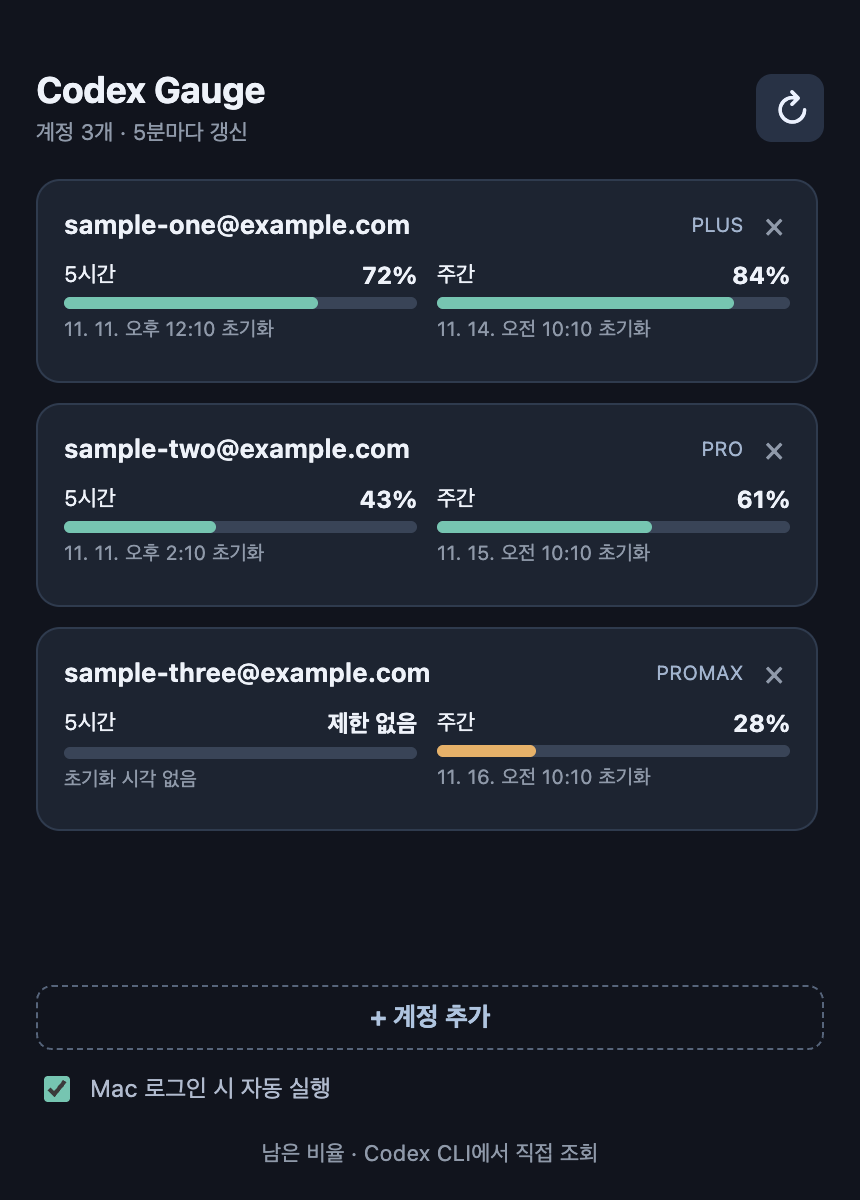
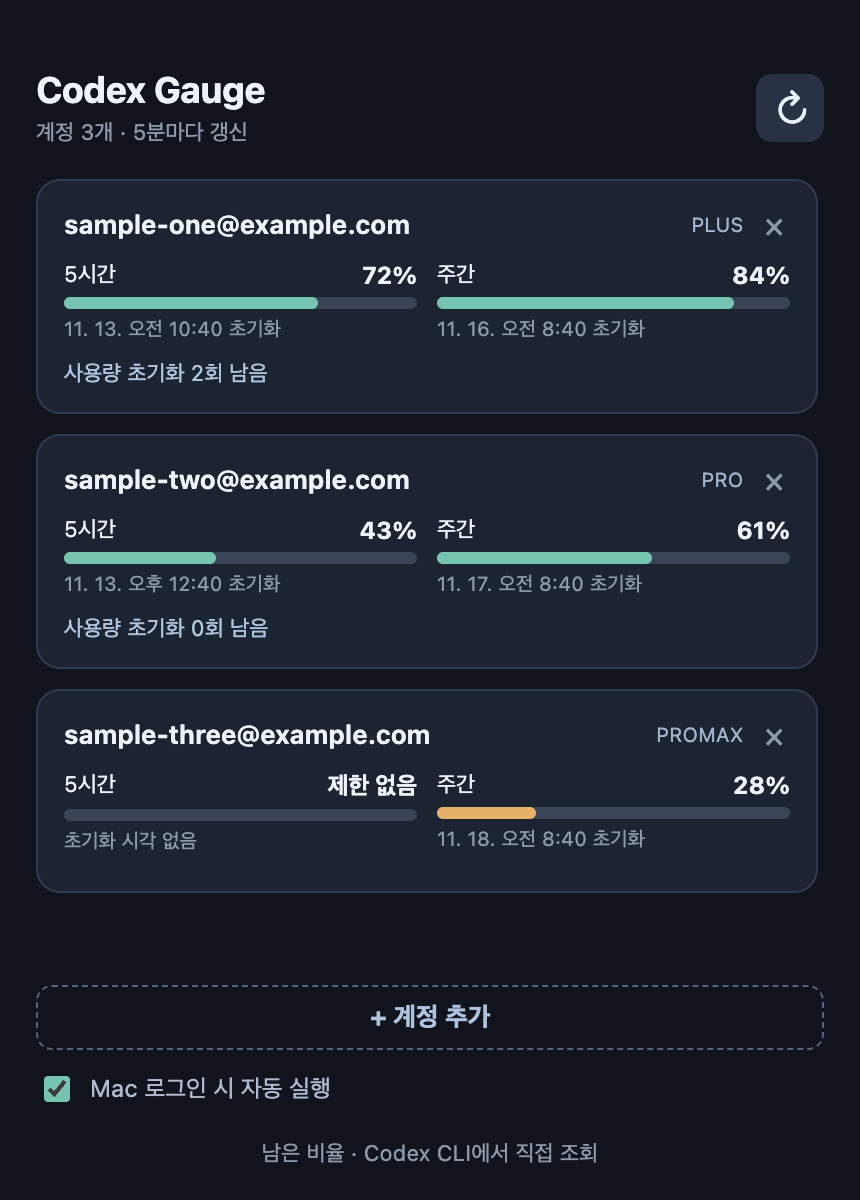
feat: show available Codex usage resets
Display earned rate-limit reset count in the menu and account cards only when the Codex app-server provides it.

diff --git a/test/reset-credits.test.js b/test/reset-credits.test.js
@@ -1,0 +1,35 @@
+'use strict';
+
+const test = require('node:test');
+const assert = require('node:assert/strict');
+const { normalizeLimits } = require('../src/limits');
+const { accountMenuLines } = require('../src/menu-label');
+const { resetCreditsLabel } = require('../src/reset-credits');
+
+function response(resetCredits) {
+  return {
+    rateLimits: { primary: { usedPercent: 25 }, secondary: { usedPercent: 50 } },
+    ...(resetCredits === undefined ? {} : { rateLimitResetCredits: resetCredits })
+  };
+}
+
+test('available reset count appears on a separate account menu row', () => {
+  const limits = normalizeLimits(response({ availableCount: 2, credits: [{ id: 'one' }] }));
+  assert.equal(limits.resetCreditCount, 2);
+  assert.deepEqual(accountMenuLines({ index: 0, email: 'sample@example.com', connected: true, ...limits }), [
+    'sample@example.com',
+    '    5시간 75% 남음  ·  주간 50% 남음',
+    '    사용량 초기화 2회 남음'
+  ]);
+});
+
+test('zero is known and displayed; missing or malformed counts are hidden', () => {
+  assert.equal(normalizeLimits(response({ availableCount: 0, credits: [] })).resetCreditCount, 0);
+  assert.equal(resetCreditsLabel(0), '사용량 초기화 0회 남음');
+  for (const value of [undefined, null, { availableCount: null }, { availableCount: -1 }, { availableCount: 1.5 }, { availableCount: '2' }]) {
+    const limits = normalizeLimits(response(value));
+    assert.equal(limits.resetCreditCount, null);
+    assert.equal(accountMenuLines({ index: 1, connected: true, ...limits }).length, 2);
+    assert.equal(resetCreditsLabel(limits.resetCreditCount), null);
+  }
+});

diff --git a/src/menu-label.js b/src/menu-label.js
@@ -1,6 +1,7 @@
 'use strict';
 
 const { missingQuotaLabel } = require('./quota-display');
+const { resetCreditsLabel } = require('./reset-credits');
 
 function accountMenuLabel(account) {
   const name = account.email || `계정 ${account.displayIndex || account.index + 1}`;
@@ -23,7 +24,10 @@ function accountMenuLines(account) {
   if (account.connected) {
     const fiveHour = account.fiveHour ? `${account.fiveHour.remainingPercent}% 남음` : missingQuotaLabel(account.plan, 'fiveHour');
     const weekly = account.weekly ? `${account.weekly.remainingPercent}% 남음` : missingQuotaLabel(account.plan, 'weekly');
-    return [name, `    5시간 ${fiveHour}  ·  주간 ${weekly}`];
+    const lines = [name, `    5시간 ${fiveHour}  ·  주간 ${weekly}`];
+    const resetCredits = resetCreditsLabel(account.resetCreditCount);
+    if (resetCredits) lines.push(`    ${resetCredits}`);
+    return lines;
   }
   const status = {
     loading: '조회 중…',

diff --git a/src/renderer.js b/src/renderer.js
@@ -67,6 +67,13 @@ function renderAccount(account, removable) {
       makeMetric('주간', account.weekly, displayMissingQuota(account.plan, 'weekly'))
     );
     card.append(metrics);
+    const resetCredits = window.resetCreditsLabel(account.resetCreditCount);
+    if (resetCredits) {
+      const count = document.createElement('div');
+      count.className = 'reset-credits';
+      count.textContent = resetCredits;
+      card.append(count);
+    }
   } else {
     const empty = document.createElement('div');
     empty.className = 'empty-state';

diff --git a/src/styles.css b/src/styles.css
@@ -26,6 +26,7 @@ main { display: grid; gap: 10px; overflow-y: auto; min-height: 0; flex: 1; align
 .fill.low { background: #f0ae5b; }
 .fill.empty { background: #e66c70; }
 .reset { color: #8c99aa; font-size: 10px; margin-top: 4px; }
+.reset-credits { color: #a9c5e1; font-size: 11px; margin-top: 9px; }
 .empty-state { display: flex; align-items: center; justify-content: space-between; gap: 8px; color: #aebbd0; font-size: 12px; }
 .actions { display: flex; gap: 6px; flex-shrink: 0; }
 .error { color: #efaaa9; overflow-wrap: anywhere; }

diff --git a/src/limits.js b/src/limits.js
@@ -23,11 +23,13 @@ function normalizeLimits(response) {
   const weekly = hasDurations
     ? windows.find(window => window.windowDurationMins === 10080)
     : bucket.secondary;
+  const availableCount = response?.rateLimitResetCredits?.availableCount;
 
   return {
     plan: bucket.planType ?? null,
     fiveHour: normalizeWindow(fiveHour),
     weekly: normalizeWindow(weekly),
+    resetCreditCount: Number.isSafeInteger(availableCount) && availableCount >= 0 ? availableCount : null,
     checkedAt: Date.now()
   };
 }

diff --git a/src/main.js b/src/main.js
@@ -225,8 +225,7 @@ function updateTrayMenu() {
   tray.setContextMenu(Menu.buildFromTemplate([
     { label: 'Codex 사용량', enabled: false },
     ...states.flatMap(account => [
-      { label: accountMenuLines(account)[0], click: () => window.show() },
-      { label: accountMenuLines(account)[1], click: () => window.show() },
+      ...accountMenuLines(account).map(label => ({ label, click: () => window.show() })),
       { type: 'separator' }
     ]),
     { label: '사용량 보기', click: () => window.show() },

diff --git a/src/reset-credits.js b/src/reset-credits.js
@@ -1,0 +1,8 @@
+'use strict';
+
+function resetCreditsLabel(count) {
+  return Number.isSafeInteger(count) && count >= 0 ? `사용량 초기화 ${count}회 남음` : null;
+}
+
+if (typeof module === 'object' && module.exports) module.exports = { resetCreditsLabel };
+else window.resetCreditsLabel = resetCreditsLabel;

diff --git a/src/index.html b/src/index.html
@@ -21,6 +21,7 @@
   </div>
   <footer>남은 비율 · Codex CLI에서 직접 조회</footer>
   <script src="quota-display.js"></script>
+  <script src="reset-credits.js"></script>
   <script src="renderer.js"></script>
 </body>
 </html>
